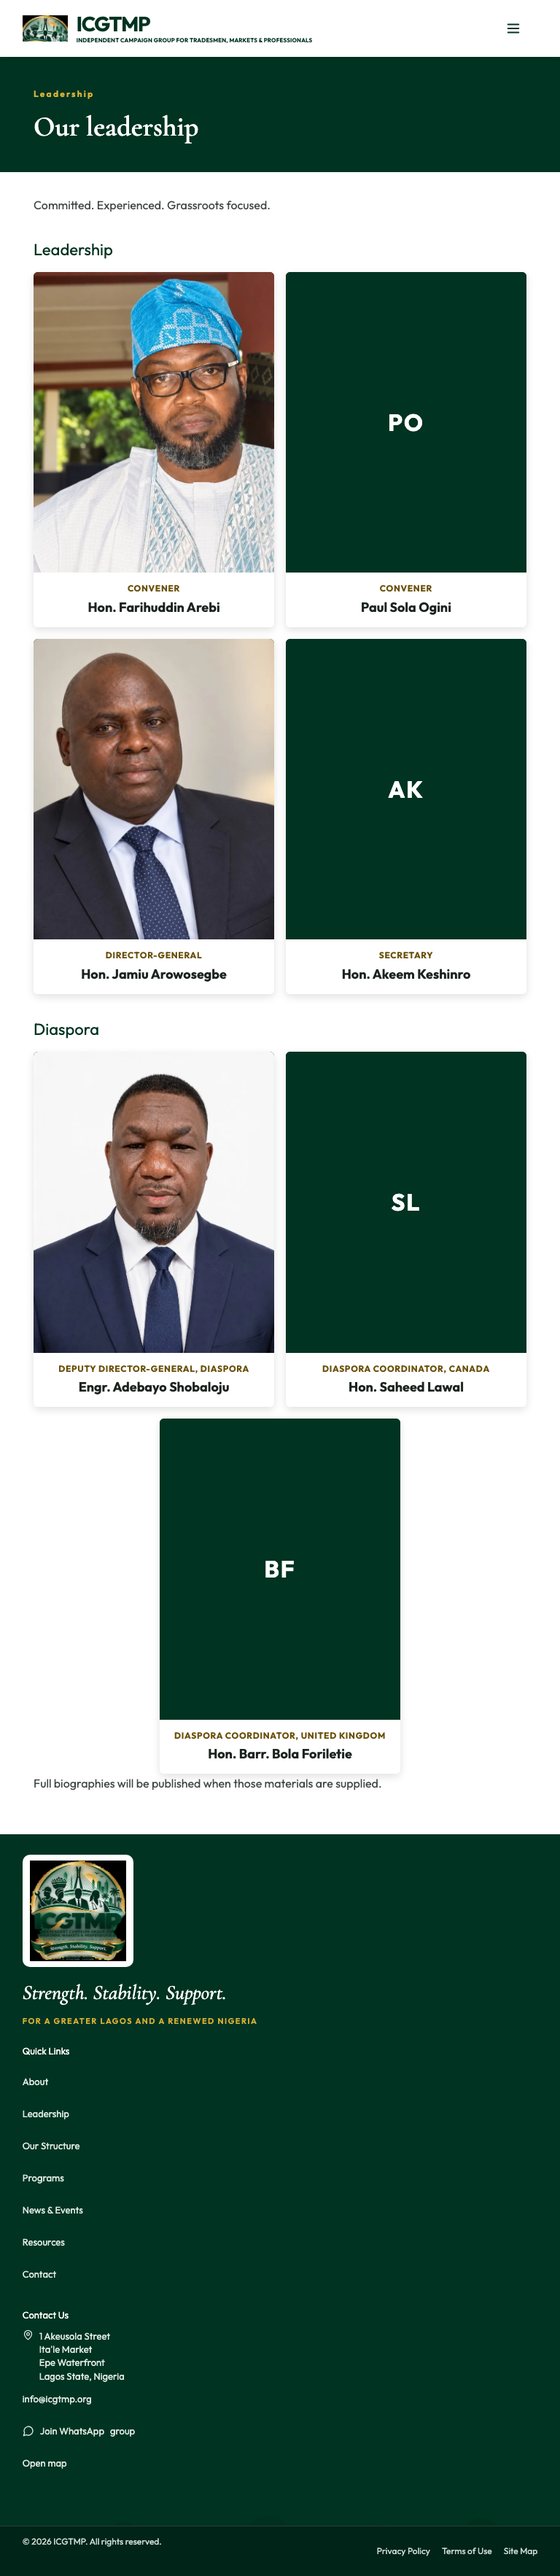
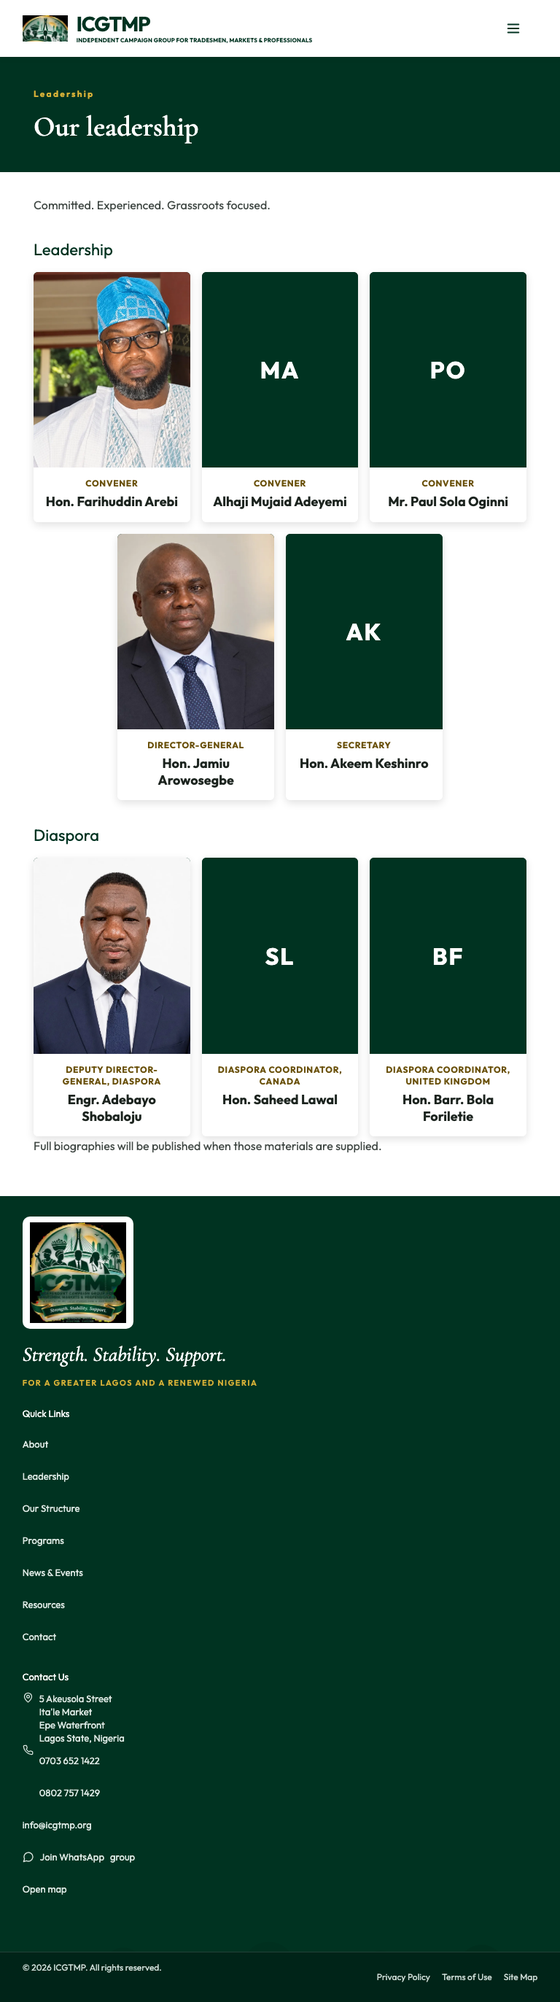
Add the confirmed Convener and contact details, and list each LGA beside its LCDAs.

diff --git a/src/index.css b/src/index.css
@@ -739,9 +739,9 @@ section[id], article[id], footer[id], #home, #home-lower { scroll-margin-top: 12
   gap: var(--leader-gap);
   align-items: stretch;
 }
-.leaderRowLeadership { grid-template-columns: repeat(4, minmax(0, 1fr)); }
+.leaderRowLeadership { grid-template-columns: repeat(5, minmax(0, 1fr)); }
 .leaderRowDiaspora {
-  grid-template-columns: repeat(3, calc((100% - 3 * var(--leader-gap)) / 4));
+  grid-template-columns: repeat(3, calc((100% - 4 * var(--leader-gap)) / 5));
   justify-content: center;
 }
 .leaderCard {
@@ -1052,6 +1052,21 @@ section[id], article[id], footer[id], #home, #home-lower { scroll-margin-top: 12
   line-height: 1.4;
 }
 .footerContact p { display: flex; gap: 8px; align-items: flex-start; }
+.footerPhones span { display: flex; flex-direction: column; min-width: 0; }
+.footerPhones a { justify-content: flex-start; }
+.contactPhones {
+  display: flex;
+  flex-wrap: wrap;
+  align-items: center;
+  gap: 4px 16px;
+}
+.contactPhones a {
+  display: inline-flex;
+  align-items: center;
+  min-height: 44px;
+  color: var(--green);
+  font-weight: 700;
+}
 .footerSocial .socialIcon { color: #fff; }
 .footerBottom {
   position: relative;
@@ -1200,6 +1215,58 @@ main h1:focus-visible {
 }
 .resourceGrid h2, .structureGrid h2 { margin-top: 0; }
 .structureGrid ul { margin: 8px 0 0; padding-left: 18px; }
+
+.innerBody:has(.lgaRegister) { max-width: 1080px; }
+.lgaRegister { margin-top: 28px; border-top: 2px solid var(--green); }
+.lgaRegisterHead,
+.lgaRow {
+  display: grid;
+  grid-template-columns: minmax(0, 1.2fr) minmax(220px, 0.8fr);
+  gap: 12px 40px;
+  align-items: start;
+}
+.lgaRegisterHead {
+  padding: 12px 0 10px;
+  border-bottom: 1px solid var(--line);
+}
+.innerBody .lgaRegisterHead p {
+  margin: 0;
+  font-size: 12px;
+  font-weight: 700;
+  letter-spacing: 0.12em;
+  text-transform: uppercase;
+  color: var(--gold-text);
+}
+.lgaRow {
+  padding: 20px 0 22px;
+  border-bottom: 1px solid var(--line);
+}
+.innerBody .lgaIdentity h2 {
+  margin: 0 0 4px;
+  font-family: var(--font-serif);
+  font-size: clamp(28px, 3vw, 36px);
+  font-weight: 600;
+  line-height: 1.05;
+  color: var(--green);
+}
+.innerBody .lgaIdentity p {
+  margin: 0;
+  max-width: 46ch;
+}
+.lgaLcdas {
+  list-style: none;
+  margin: 4px 0 0;
+  padding: 0;
+}
+.lgaLcdas li {
+  margin: 0;
+  padding: 7px 0;
+  border-bottom: 1px solid var(--line);
+  font-size: 16px;
+  line-height: 1.35;
+  color: var(--ink);
+}
+.lgaLcdas li:last-child { border-bottom: 0; padding-bottom: 0; }
 
 @media (max-width: 1280px) {
   .mainNav { gap: 18px; }
@@ -1366,14 +1433,12 @@ main h1:focus-visible {
   }
 }
 
-@media (max-width: 900px) {
-  .leaderRowLeadership,
-  .leaderRowDiaspora { grid-template-columns: repeat(2, minmax(0, 1fr)); }
-  .leaderRowDiaspora .leaderCard:last-child:nth-child(odd) {
-    grid-column: 1 / -1;
-    width: calc((100% - var(--leader-gap)) / 2);
-    justify-self: center;
-  }
+@media (max-width: 1279px) {
+  .leaderRowLeadership { grid-template-columns: repeat(6, minmax(0, 1fr)); }
+  .leaderRowLeadership .leaderCard { grid-column: span 2; }
+  .leaderRowLeadership .leaderCard:nth-child(4) { grid-column: 2 / span 2; }
+  .leaderRowLeadership .leaderCard:nth-child(5) { grid-column: 4 / span 2; }
+  .leaderRowDiaspora { grid-template-columns: repeat(3, minmax(0, 1fr)); }
 }
 
 @media (max-width: 640px) {
@@ -1382,11 +1447,9 @@ main h1:focus-visible {
   .leaderSectionHead { flex-direction: column; align-items: flex-start; }
   .leaderRowLeadership,
   .leaderRowDiaspora { grid-template-columns: 1fr; }
-  .leaderRowDiaspora .leaderCard:last-child:nth-child(odd) {
-    grid-column: auto;
-    width: auto;
-    justify-self: stretch;
-  }
+  .leaderRowLeadership .leaderCard,
+  .leaderRowLeadership .leaderCard:nth-child(4),
+  .leaderRowLeadership .leaderCard:nth-child(5) { grid-column: auto; }
   .sectorGrid { grid-template-columns: 1fr; }
   .impactStrip { grid-template-columns: 1fr 1fr; }
   .impactTitle, .impactStrip blockquote { grid-column: span 2; }
@@ -1398,6 +1461,8 @@ main h1:focus-visible {
   .joinModal form { grid-template-columns: 1fr; }
   .footerBottom { flex-direction: column; }
   .footerGrid { padding-bottom: 80px; }
+  .lgaRegisterHead { display: none; }
+  .lgaRow { grid-template-columns: 1fr; gap: 8px; }
 }
 
 .formPrivacy {

diff --git a/src/data/leaders.ts b/src/data/leaders.ts
@@ -26,7 +26,7 @@ export function leaderInitials(name: string): string {
   const words = name
     .split(/\s+/)
     .map((word) => word.replace(/\./g, ''))
-    .filter((word) => word && !/^(hon|engr|barr)$/i.test(word));
+    .filter((word) => word && !/^(hon|engr|barr|mr|alhaji)$/i.test(word));
   const first = words[0]?.[0] ?? '';
   const last = words.length > 1 ? words[words.length - 1][0] : (words[0]?.[1] ?? '');
   return `${first}${last}`.toUpperCase();
@@ -49,19 +49,27 @@ export const leaders: Leader[] = [
     objectPositionMobile: '50% 50%',
   },
   {
-    slug: 'paul-sola-ogini',
-    name: 'Paul Sola Ogini',
+    slug: 'mujaid-adeyemi',
+    name: 'Alhaji Mujaid Adeyemi',
     role: 'Convener',
     group: 'leadership',
     order: 2,
-    photo: '/leaders/paul-sola-ogini.webp',
+    photo: '/leaders/mujaid-adeyemi.webp',
+  },
+  {
+    slug: 'paul-sola-oginni',
+    name: 'Mr. Paul Sola Oginni',
+    role: 'Convener',
+    group: 'leadership',
+    order: 3,
+    photo: '/leaders/paul-sola-oginni.webp',
   },
   {
     slug: 'jamiu-arowosegbe',
     name: 'Hon. Jamiu Arowosegbe',
     role: 'Director-General',
     group: 'leadership',
-    order: 3,
+    order: 4,
     photo: '/leaders/jamiu-arowosegbe.webp',
     objectPosition: '50% 18%',
     objectPositionMobile: '50% 16%',
@@ -71,7 +79,7 @@ export const leaders: Leader[] = [
     name: 'Hon. Akeem Keshinro',
     role: 'Secretary',
     group: 'leadership',
-    order: 4,
+    order: 5,
     photo: '/leaders/akeem-keshinro.webp',
   },
   {
@@ -79,7 +87,7 @@ export const leaders: Leader[] = [
     name: 'Engr. Adebayo Shobaloju',
     role: 'Deputy Director-General, Diaspora',
     group: 'diaspora',
-    order: 5,
+    order: 6,
     photo: '/leaders/adebayo-shobaloju.webp',
   },
   {
@@ -87,7 +95,7 @@ export const leaders: Leader[] = [
     name: 'Hon. Saheed Lawal',
     role: 'Diaspora Coordinator, Canada',
     group: 'diaspora',
-    order: 6,
+    order: 7,
     photo: '/leaders/saheed-lawal.webp',
   },
   {
@@ -95,7 +103,7 @@ export const leaders: Leader[] = [
     name: 'Hon. Barr. Bola Foriletie',
     role: 'Diaspora Coordinator, United Kingdom',
     group: 'diaspora',
-    order: 7,
+    order: 8,
     photo: '/leaders/bola-foriletie.webp',
   },
 ];

diff --git a/src/data/site.ts b/src/data/site.ts
@@ -5,9 +5,13 @@ export const org = {
   banner: 'For a Greater Lagos and a Renewed Nigeria',
   affiliation: 'In support of APC Lagos stakeholders & leadership',
   email: 'info@icgtmp.org',
+  phones: [
+    { display: '0703 652 1422', tel: '+2347036521422' },
+    { display: '0802 757 1429', tel: '+2348027571429' },
+  ],
   whatsappGroup: 'https://chat.whatsapp.com/EujQVqVv4N6HcsTkYbtm8V',
   addressLines: [
-    '1 Akeusola Street',
+    '5 Akeusola Street',
     "Ita'le Market",
     'Epe Waterfront',
     'Lagos State, Nigeria',
@@ -15,7 +19,7 @@ export const org = {
 };
 
 export const mapsUrl =
-  "https://www.google.com/maps/search/?api=1&query=1%20Akeusola%20Street%20Ita'le%20Market%20Epe%20Waterfront%20Lagos";
+  "https://www.google.com/maps/search/?api=1&query=5%20Akeusola%20Street%20Ita'le%20Market%20Epe%20Waterfront%20Lagos";
 
 export const membershipCategories = [
   'Markets & Traders',
@@ -62,7 +66,7 @@ export const navigation: NavItem[] = [
     label: 'Leadership',
     to: '/leadership',
     title: 'Leadership | ICGTMP',
-    description: 'Hon. Farihuddin Arebi, Convener, and Hon. Jamiu Arowosegbe, Director-General.',
+    description: 'Conveners, Director-General, Secretary, and diaspora coordinators of ICGTMP.',
     header: true,
     footer: true,
   },

diff --git a/src/pages/StructurePage.tsx b/src/pages/StructurePage.tsx
@@ -8,12 +8,18 @@ export function StructurePage() {
         ICGTMP is organized across 5 Local Government Areas and 11 LCDAs in Lagos East, with ward
         and community networks at the grassroots.
       </p>
-      <div className="structureGrid">
+      <div className="lgaRegister">
+        <div className="lgaRegisterHead">
+          <p>Local Government Area</p>
+          <p>LCDA</p>
+        </div>
         {lgaNames.map((lga) => (
-          <article key={lga} id={lgaSectionId(lga)}>
-            <h2>{lga}</h2>
-            <p>{lgaNotes[lga]}</p>
-            <ul>
+          <article key={lga} id={lgaSectionId(lga)} className="lgaRow">
+            <div className="lgaIdentity">
+              <h2>{lga}</h2>
+              <p>{lgaNotes[lga]}</p>
+            </div>
+            <ul className="lgaLcdas">
               {lgaDirectory[lga].map((lcda) => (
                 <li key={lcda}>{lcda}</li>
               ))}

diff --git a/src/pages/ContactPage.tsx b/src/pages/ContactPage.tsx
@@ -1,5 +1,5 @@
 import { Link } from 'react-router-dom';
-import { MapPin, Mail } from 'lucide-react';
+import { MapPin, Mail, Phone } from 'lucide-react';
 import { useCallback, useRef, useState, type FormEvent } from 'react';
 import { mapsUrl, org } from '../data/site';
 import { mailtoHref } from '../lib/form';
@@ -177,6 +177,14 @@ export function ContactPage() {
           </p>
           <p>
             <MapPin size={16} aria-hidden="true" /> {org.addressLines.join(', ')}
+          </p>
+          <p className="contactPhones">
+            <Phone size={16} aria-hidden="true" />
+            {org.phones.map((phone) => (
+              <a key={phone.tel} href={`tel:${phone.tel}`}>
+                {phone.display}
+              </a>
+            ))}
           </p>
           <p>
             <Mail size={16} aria-hidden="true" /> <a href={`mailto:${org.email}`}>{org.email}</a>

diff --git a/src/components/Footer.tsx b/src/components/Footer.tsx
@@ -1,4 +1,4 @@
-import { MapPin } from 'lucide-react';
+import { MapPin, Phone } from 'lucide-react';
 import { Link } from 'react-router-dom';
 import { mapsUrl, navigation, org } from '../data/site';
 import { Brand } from './Brand';
@@ -36,6 +36,16 @@ export function Footer() {
                   {line}
                   <br />
                 </span>
+              ))}
+            </span>
+          </p>
+          <p className="footerPhones">
+            <Phone size={15} aria-hidden="true" />
+            <span>
+              {org.phones.map((phone) => (
+                <a key={phone.tel} href={`tel:${phone.tel}`}>
+                  {phone.display}
+                </a>
               ))}
             </span>
           </p>

diff --git a/src/pages/ResourcesPage.tsx b/src/pages/ResourcesPage.tsx
@@ -37,7 +37,7 @@ export function ResourcesPage() {
         <article>
           <h2>Contact</h2>
           <p>
-            1 Akeusola Street, Ita&apos;le Market, Epe Waterfront. Email info@icgtmp.org, or{' '}
+            {org.addressLines.slice(0, 3).join(', ')}. Email info@icgtmp.org, or{' '}
             <a href={org.whatsappGroup} target="_blank" rel="noopener noreferrer">
               join the WhatsApp group
             </a>

diff --git a/CONTENT_NEEDED.md b/CONTENT_NEEDED.md
@@ -11,7 +11,8 @@ Items marked for confirmation in the programme-page copy. They are not published
 
 These files are not in the site. The cards show a monogram until the portrait is added. Do not substitute a stock photo or another person's image.
 
-- `/leaders/paul-sola-ogini.webp` — Paul Sola Ogini, Convener
+- `/leaders/mujaid-adeyemi.webp` — Alhaji Mujaid Adeyemi, Convener
+- `/leaders/paul-sola-oginni.webp` — Mr. Paul Sola Oginni, Convener
 - `/leaders/akeem-keshinro.webp` — Hon. Akeem Keshinro, Secretary
 - `/leaders/saheed-lawal.webp` — Hon. Saheed Lawal, Diaspora Coordinator, Canada
 - `/leaders/bola-foriletie.webp` — Hon. Barr. Bola Foriletie, Diaspora Coordinator, United Kingdom
